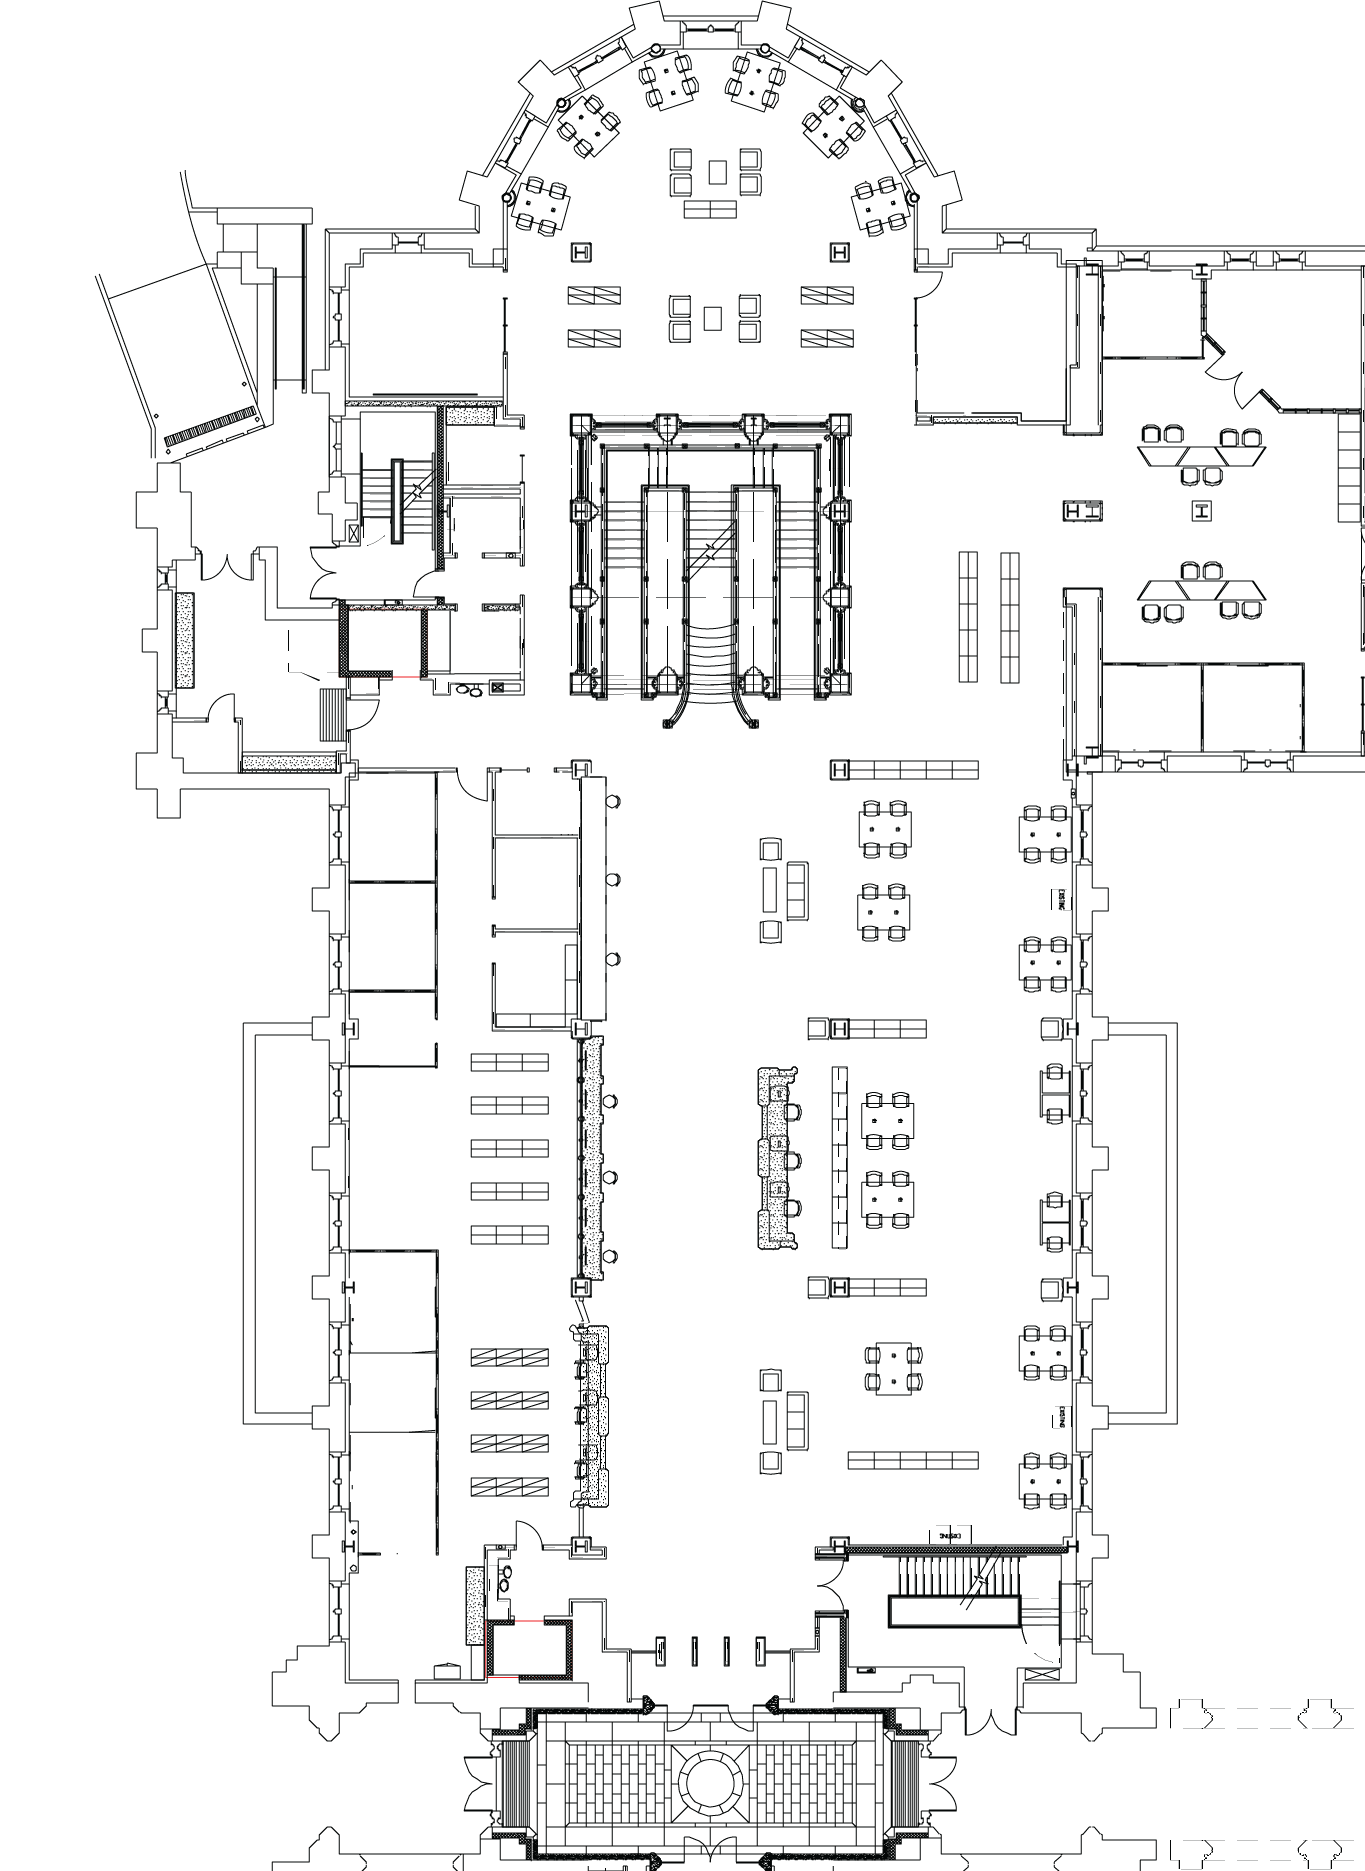
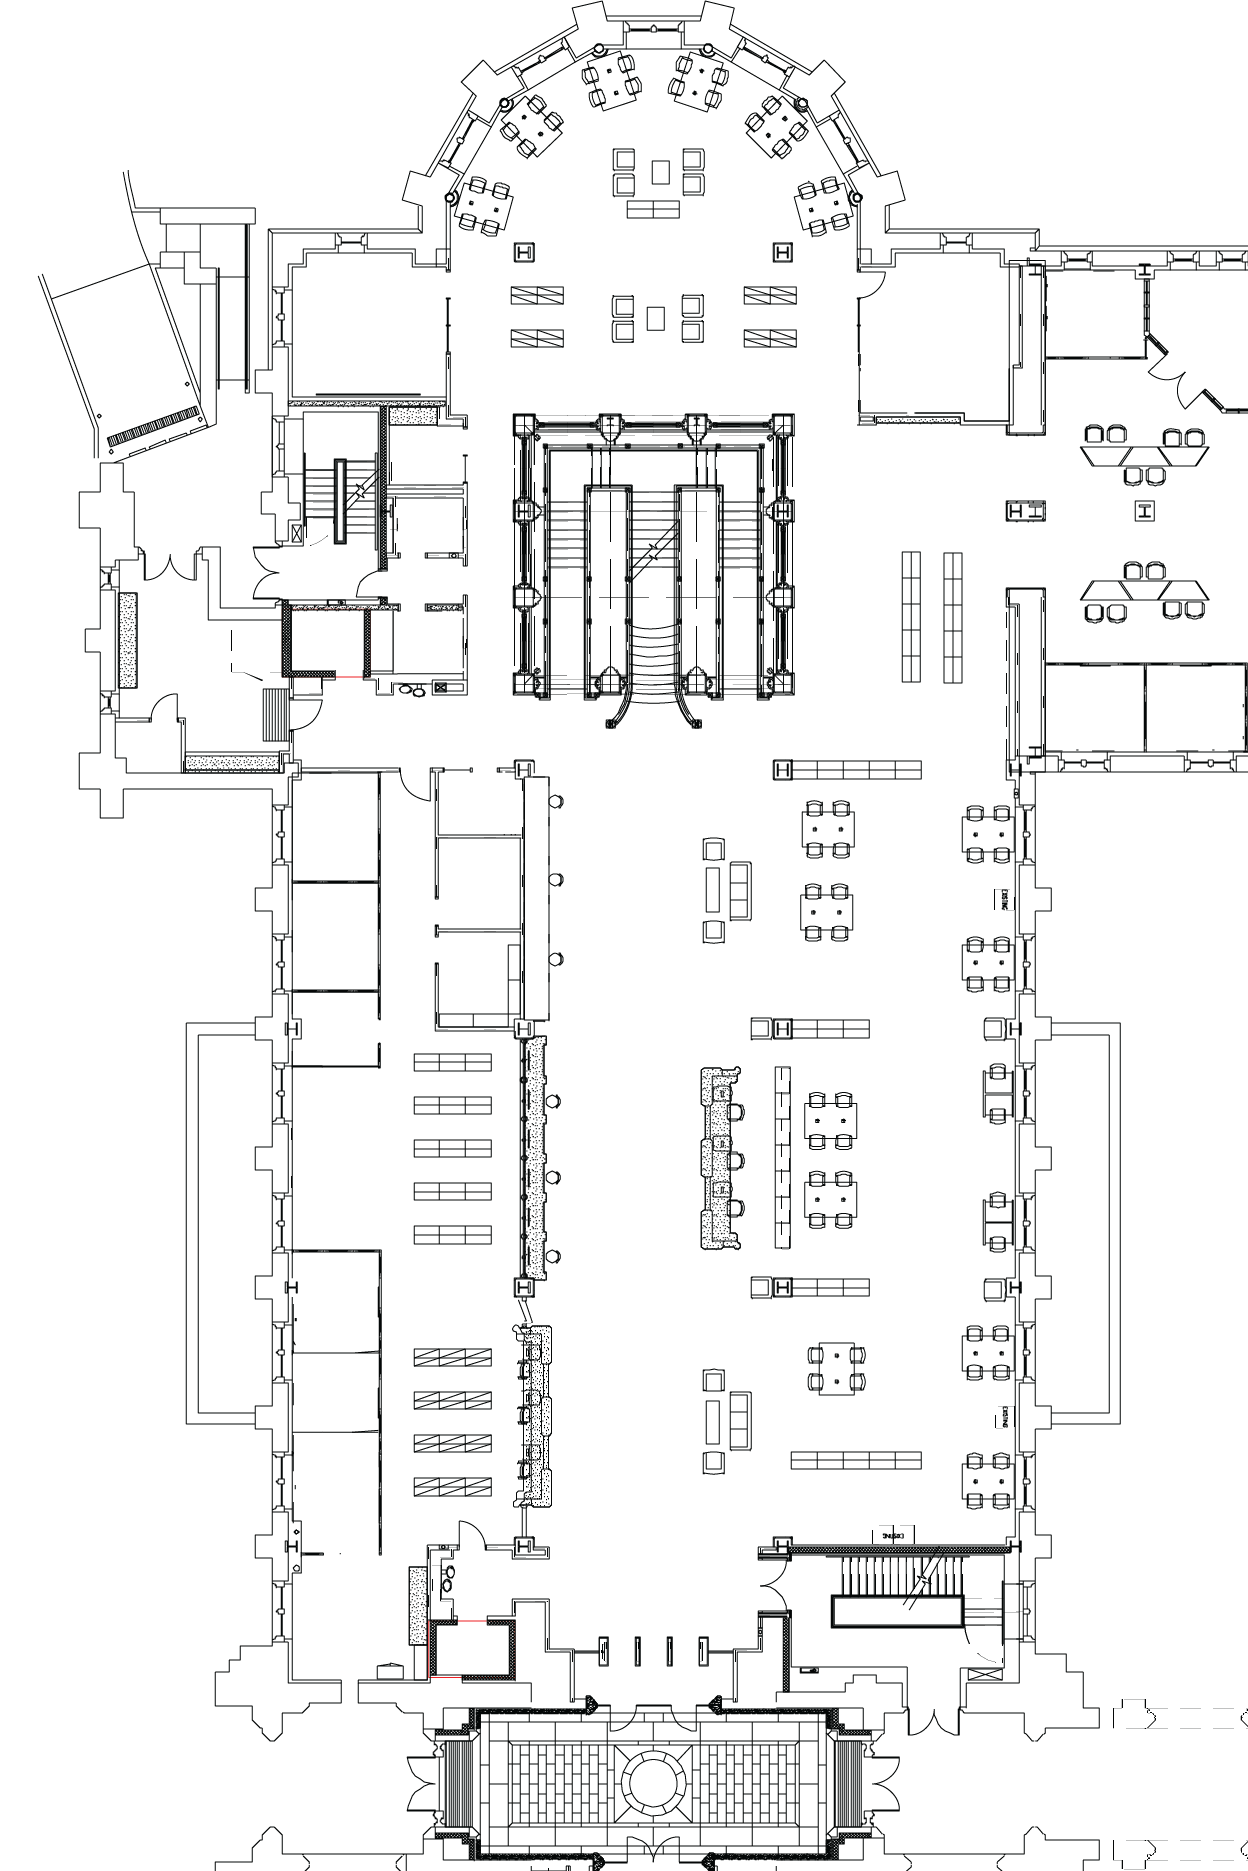
centered floor plan

diff --git a/screens/LibFloorPlan.tsx b/screens/LibFloorPlan.tsx
@@ -1,19 +1,25 @@
 //import React, {useState}from 'react';
 import React from 'react';
-import {View, Text, TouchableOpacity, StyleSheet, SafeAreaView, ImageBackground, Image} from 'react-native';
+import {View, Text, TouchableOpacity, StyleSheet, SafeAreaView, ImageBackground, Image, Dimensions} from 'react-native';
 import NfcManager, {NfcTech} from 'react-native-nfc-manager';
 import { Alert } from 'react-native';
 import axios from 'axios';
 import {createNativeStackNavigator} from '@react-navigation/native-stack'
 import { createDrawerNavigator } from '@react-navigation/drawer';
-import { Box, Canvas, Rect, SkImage, rect, rrect } from '@shopify/react-native-skia';
+import { Box, Canvas, Rect, SkImage, rect, rrect, translate, transformOrigin } from '@shopify/react-native-skia';
 import FirstFloor from './../screens/FirstLevelCropped.png';
-import {Dimensions} from 'react-native';
+//import {Dimensions} from 'react-native';
 //import Image from 'react-native-scalable-image';
 
 
 //<ImageBackground source={require('./FirstLevelCropped.png')} style= {[styles.background]}>
 //</ImageBackground>  
+
+const {width, height} = Dimensions.get('window'); 
+
+const screenWidth = width;
+const screenHieght = height;
+
 export default function LibFloorPlan(){
    
     return(
@@ -24,14 +30,17 @@ export default function LibFloorPlan(){
                 style= {styles.floor}
                 source={require('./FirstLevelCropped.png')} 
             />
-            <Canvas style={styles.tables}>
-                <Box color = "red" box= {rrect(rect(322, 540, 20, 20), 5, 5)}></Box>
-                <Box color = "red" box= {rrect(rect(322, 493, 20, 20), 5, 5)}></Box>
-                <Box color = "red" box= {rrect(rect(330, 454, 10, 10), 2, 2)}></Box>
-                <Box color = "green" box= {rrect(rect(330, 443, 10, 10), 2, 2)}></Box>
-            </Canvas>
-           
-
+            <View style = {styles.tables}>
+                
+                
+                <Canvas style={styles.tables}>
+                    <Box color = "yellow" box= {rrect(rect(screenWidth/2 -10, screenHieght/2 -10, 20, 20), 5, 5)}></Box>
+                    <Box color = "red" box= {rrect(rect(322, 540, 20, 20), 5, 5)}></Box>
+                    <Box color = "blue" box= {rrect(rect(322, 493, 20, 20), 5, 5)}></Box>
+                    <Box color = "red" box= {rrect(rect(330, 454, 10, 10), 2, 2)}></Box>
+                    <Box color = "green" box= {rrect(rect(330, 443, 10, 10), 2, 2)}></Box>
+                </Canvas>
+            </View>
         </SafeAreaView>
     )
 }
@@ -39,9 +48,9 @@ export default function LibFloorPlan(){
 
 const styles = StyleSheet.create({
    SafeAreaViewContainer:{
-    //flex: 1,
-    minWidth: '100%',
-    minHeight: '100%',
+    flex: 1,
+    //minWidth: '100%',
+    //minHeight: '100%',
     alignItems: 'center',
     justifyContent: 'center',
     backgroundColor: 'white',
@@ -55,20 +64,27 @@ const styles = StyleSheet.create({
    },
 
    floor:{
-    height: '100%',
-    width: '100%',
-    //position: 'absolute',
-    
-    //justifyContent: 'flex-start',
-    //alignContent: 'flex-start',
-    //paddingHorizontal: 50,
-    //paddingVertical: 50,
-    //marginTop: '',
-    //marginLeft: '20',
+    height: 500,
+    width: 500/1.5,
+    position: 'absolute',
+    top: screenHieght/2 -250,
+    left: screenWidth/2 - 166.5,
+   
    },
 
    tables:{
-    flex: 1.5,
+    ... StyleSheet.absoluteFillObject,
+    justifyContent: 'center',
+    alignItems: 'center',
+    
+    //position: 'absolute',
+
+   }, 
+
+   table1:{
+    height: 20,
+    width: 20,
+    color: 'red',
    }
 
 });
